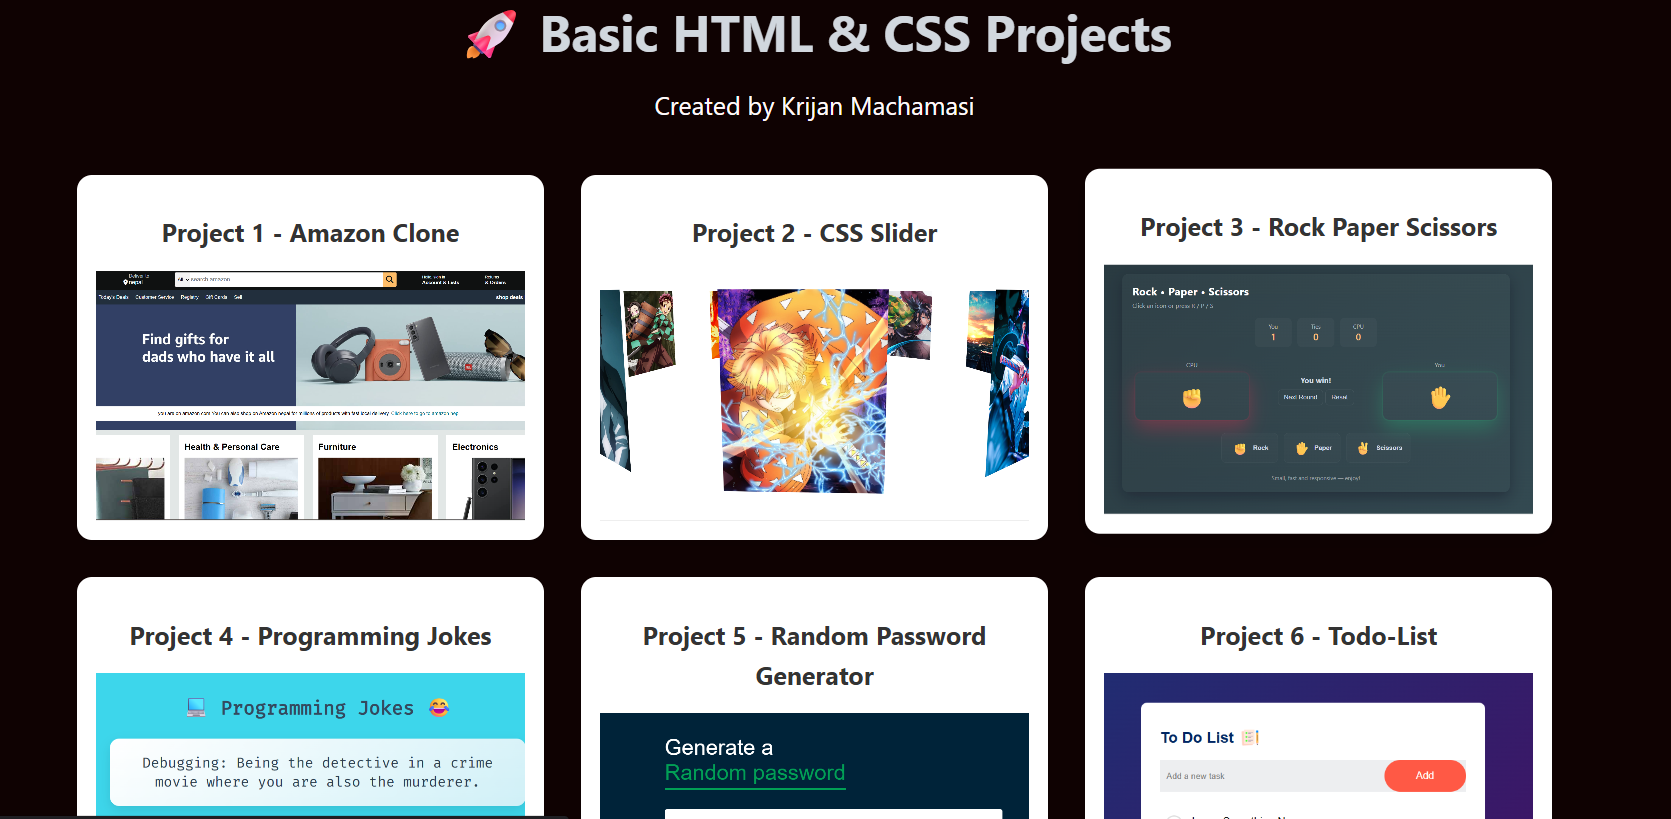
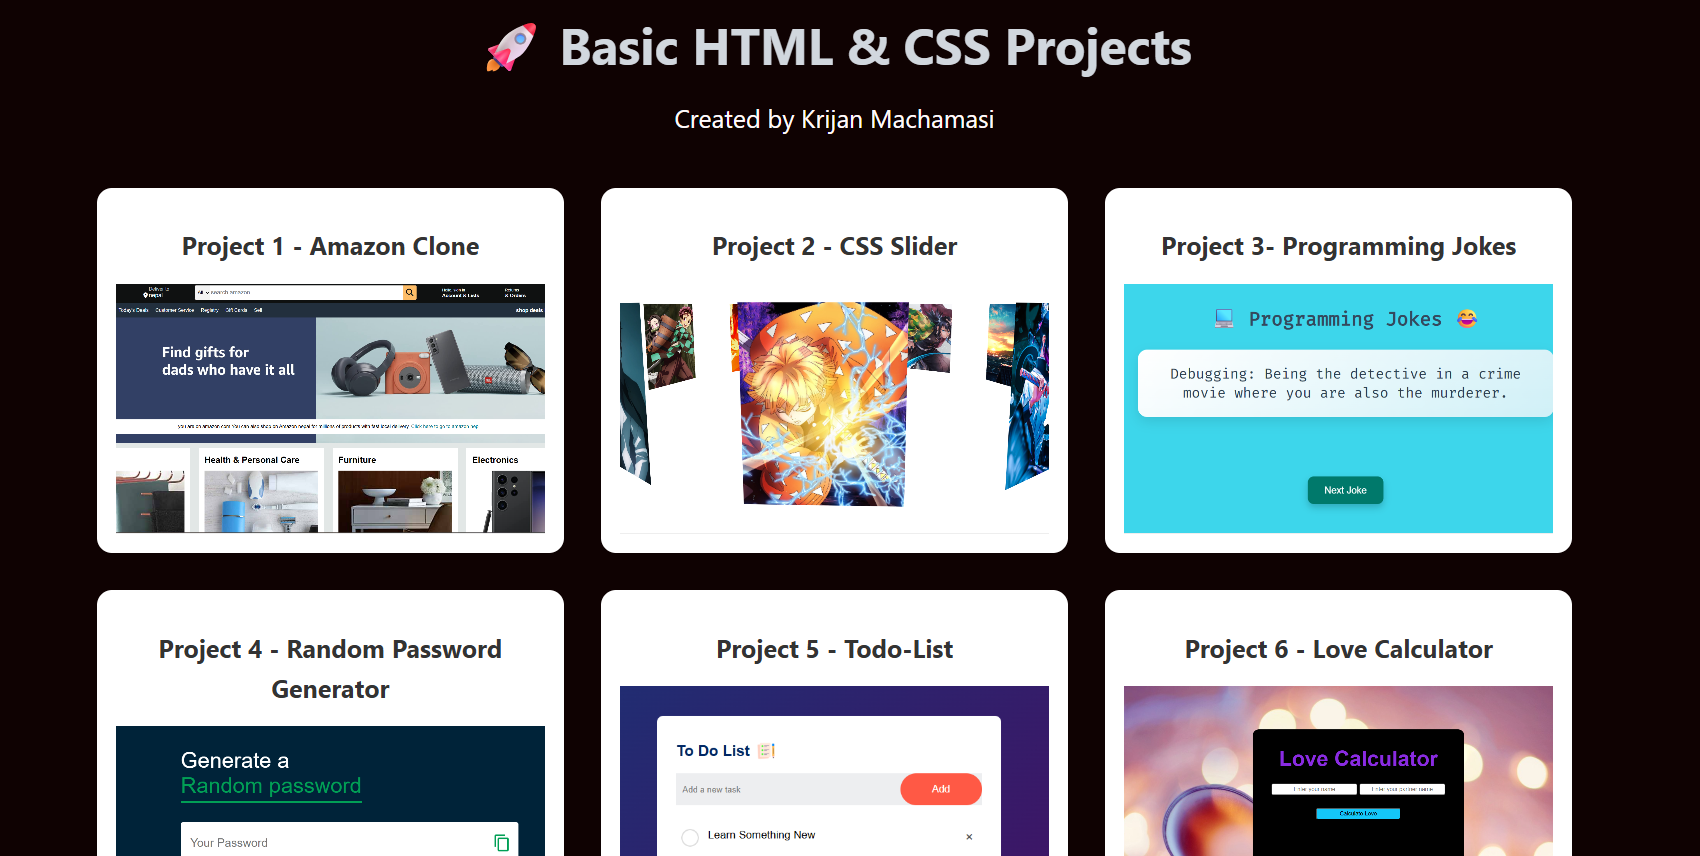
project maintained

diff --git a/src/assets/mywork_data.js b/src/assets/mywork_data.js
@@ -1,46 +1,48 @@
-import Netflix_img from '../assets/Netflix.png'
-import Todo_list from '../assets/Todo_list.png'
-import Basic_project from '../assets/Basic_project.png'
-import Demo_website from '../assets/Demo_website.png'
-import Weather_App from '../assets/Weather_App.png'
-import project6_img from '../assets/project_6.svg'
+import Netflix_img from "../assets/Netflix.png";
+import Todo_list from "../assets/Todo_list.png";
+import Basic_project from "../assets/Basic_project.png";
+import Demo_website from "../assets/Demo_website.png";
+import Weather_App from "../assets/Weather_App.png";
+import Rockpaer from "../assets/Rockpaper.png";
 
 const mywork_data = [
-    {
-        w_no:1,
-        w_name:"Web design",
-        w_img:Netflix_img,
-        link:"https://movie-ui-clone-git-main-krijanmachamasi777s-projects.vercel.app?_vercel_share=xK1csMix88qhiOaFTxUqNIwxRXYoM5ye"
-    },
-    {
-        w_no:2,
-        w_name:"Web design",
-        w_img:Todo_list,
-        link:"https://todo-list-git-main-krijanmachamasi777s-projects.vercel.app?_vercel_share=MVXluYlRA3rAkGAUGl3BCK6pegjl7WSb"
-    },
-    {
-        w_no:3,
-        w_name:"Web design",
-        w_img:Basic_project,
-        link:"https://basic-html-css-git-main-krijanmachamasi777s-projects.vercel.app?_vercel_share=lqdIEOLw38HNnetC3eCdOGymqUWVWgTK"
-    },
-    {
-        w_no:4,
-        w_name:"Web design",
-        w_img:Demo_website,
-        link:"https://demo-website-git-main-krijanmachamasi777s-projects.vercel.app?_vercel_share=oGCcV0OgI85hRzQp41tkLBp7HZYMeo7d"
-    },
-    {
-        w_no:5,
-        w_name:"Web design",
-        w_img:Weather_App,
-        link:"https://weather-app-git-main-krijanmachamasi777s-projects.vercel.app?_vercel_share=CSpBZBy6dSJEvXytXrcD6coQa1OCQybH"
-    },
-    {
-        w_no:6,
-        w_name:"Web design",
-        w_img:project6_img
-    },
-]
- 
+  {
+    w_no: 1,
+    w_name: "Web design",
+    w_img: Netflix_img,
+    link: "https://movie-ui-clone-git-main-krijanmachamasi777s-projects.vercel.app?_vercel_share=xK1csMix88qhiOaFTxUqNIwxRXYoM5ye",
+  },
+  {
+    w_no: 2,
+    w_name: "Web design",
+    w_img: Weather_App,
+    link: "https://weather-app-git-main-krijanmachamasi777s-projects.vercel.app?_vercel_share=CSpBZBy6dSJEvXytXrcD6coQa1OCQybH",
+  },
+  {
+    w_no: 3,
+    w_name: "Web design",
+    w_img: Rockpaer,
+    link: "https://rock-paper-scissor-git-main-krijanmachamasi777s-projects.vercel.app?_vercel_share=5OcYWZVVSA1Kcfupzv0sOFgh1ByJIosp",
+  },
+
+  {
+    w_no: 4,
+    w_name: "Web design",
+    w_img: Basic_project,
+    link: "https://basic-html-css-git-main-krijanmachamasi777s-projects.vercel.app?_vercel_share=lqdIEOLw38HNnetC3eCdOGymqUWVWgTK",
+  },
+  {
+    w_no: 5,
+    w_name: "Web design",
+    w_img: Todo_list,
+    link: "https://todo-list-git-main-krijanmachamasi777s-projects.vercel.app?_vercel_share=MVXluYlRA3rAkGAUGl3BCK6pegjl7WSb",
+  },
+  {
+    w_no: 6,
+    w_name: "Web design",
+    w_img: Demo_website,
+    link: "https://demo-website-git-main-krijanmachamasi777s-projects.vercel.app?_vercel_share=oGCcV0OgI85hRzQp41tkLBp7HZYMeo7d",
+  },
+];
+
 export default mywork_data;
